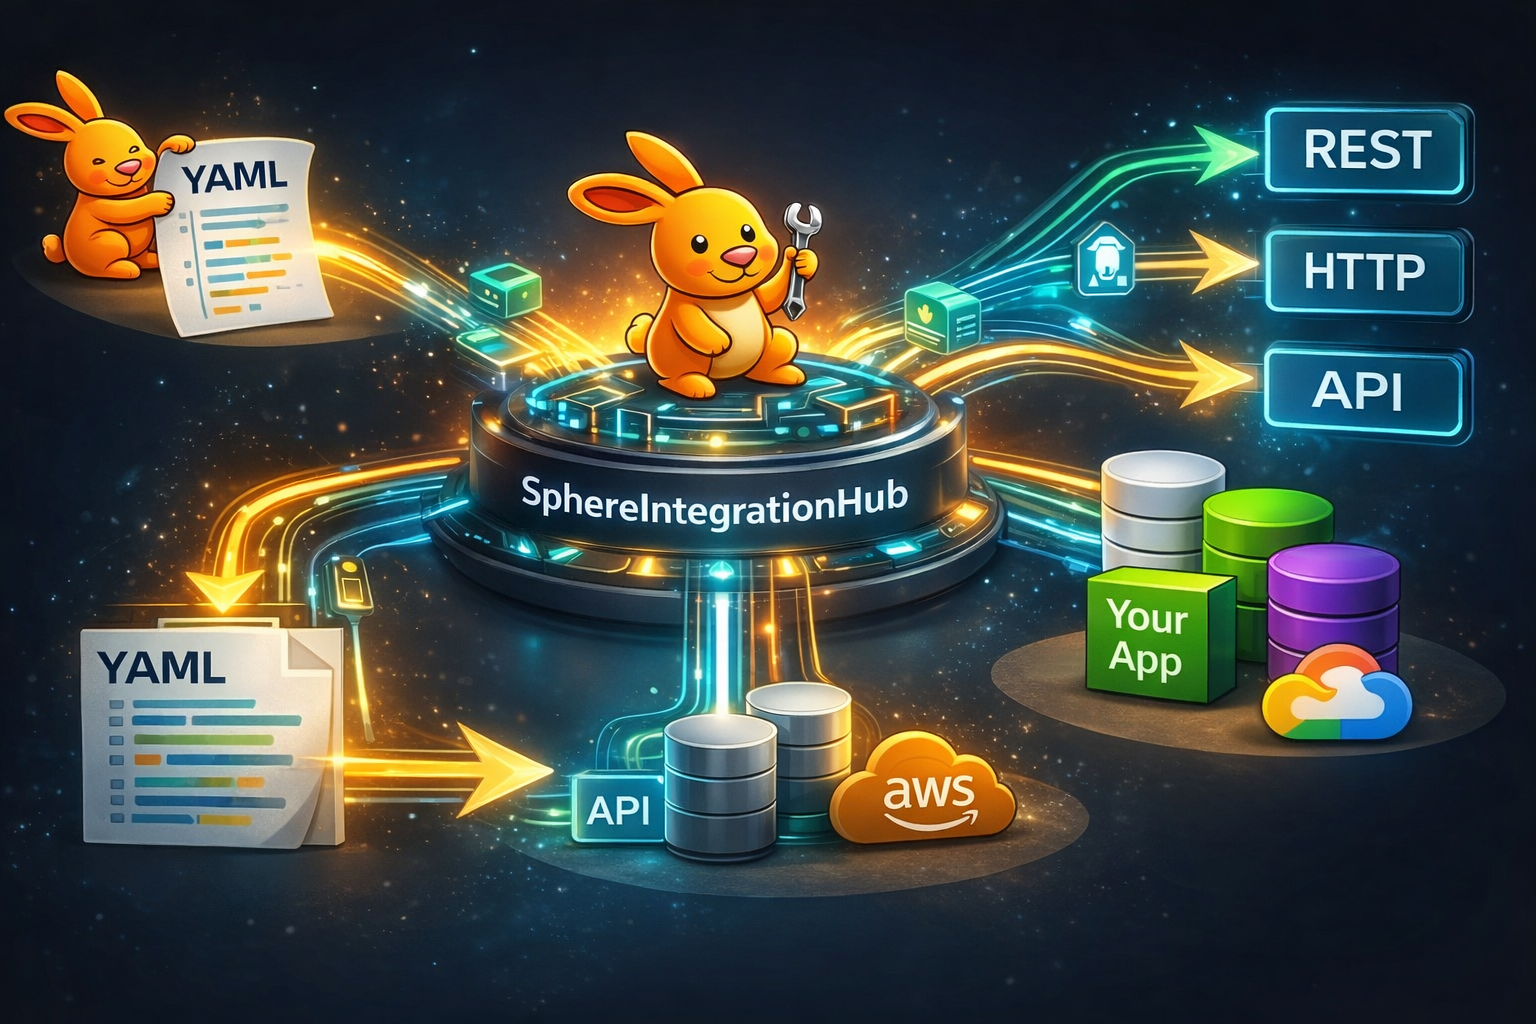
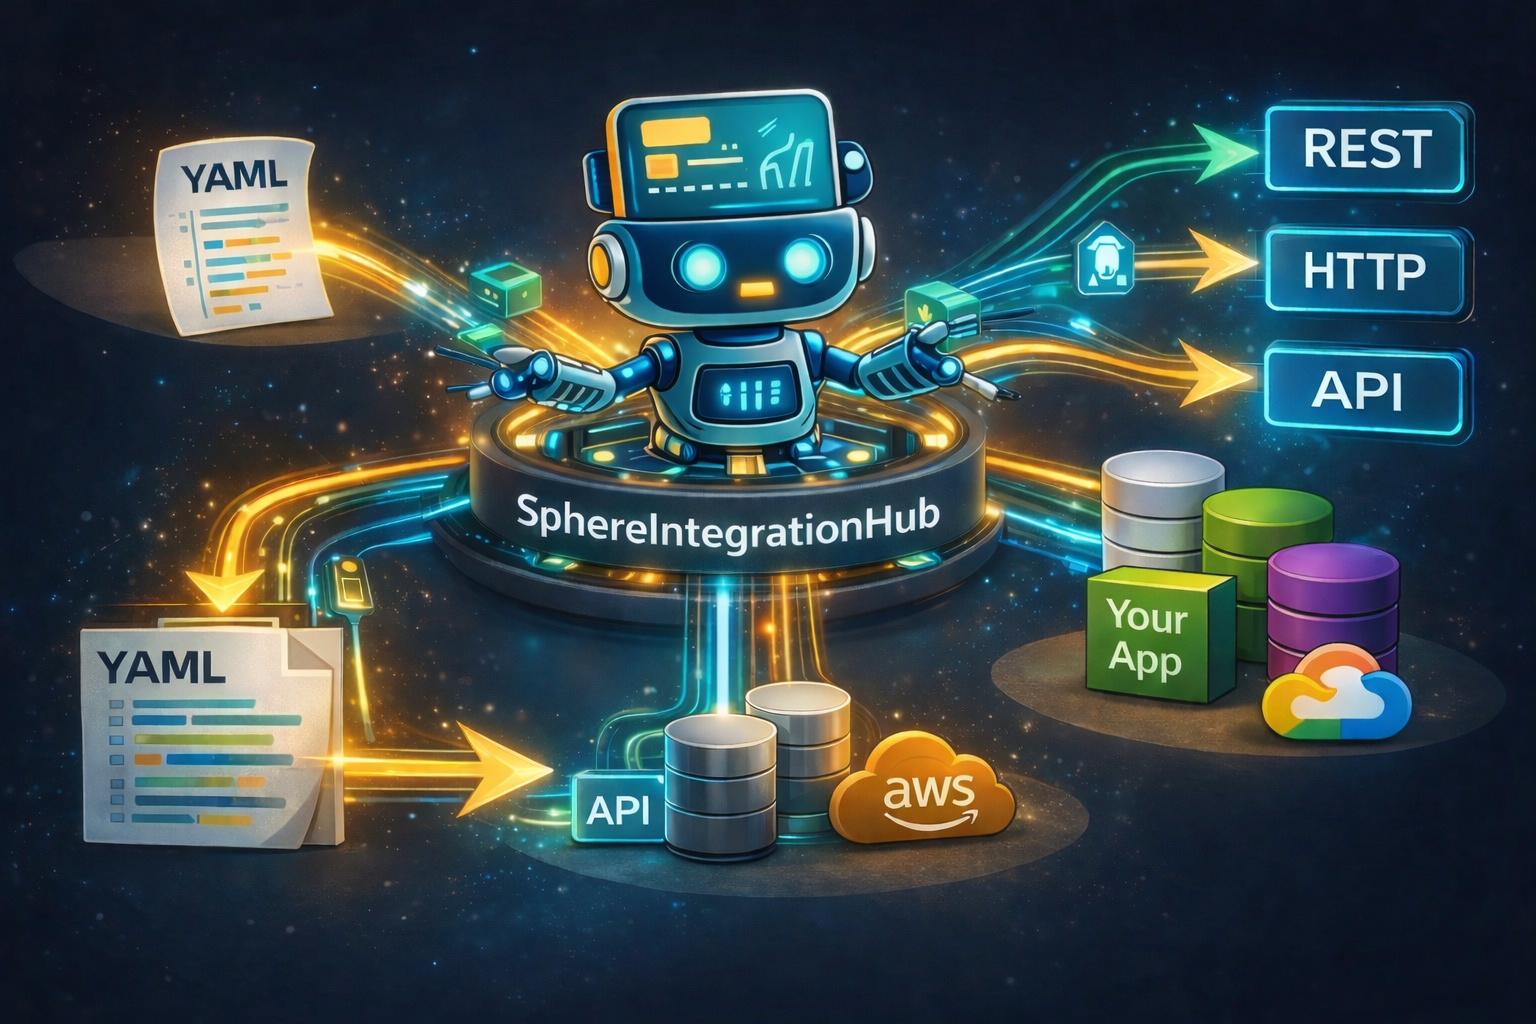
feat(mcp): add MCP probe workflow and related configurations

Changed region(s): [[0.0, 0.0625, 0.9688, 0.8438], [0.5, 0.7812, 0.5312, 0.8438]]

diff --git a/README.md b/README.md
@@ -7,9 +7,11 @@
 </p>
 
 [![Ask DeepWiki](https://deepwiki.com/badge.svg)](https://deepwiki.com/PinedaTec-EU/SphereIntegrationHub)
-
 [![License MIT](https://img.shields.io/badge/MIT_license-blue)](https://opensource.org/licenses/MIT)
 [![DotNet 10](https://img.shields.io/badge/dotnet_10-green)](https://dotnet.microsoft.com/en-us/download/dotnet/10.0)
+![MCP](https://img.shields.io/badge/MCP-yellow)
+![CLI](https://img.shields.io/badge/CLI-blue)
+![IaC](https://img.shields.io/badge/IaC-red)
 
 CLI tool to orchestrate API calls using versioned Swagger catalogs and YAML workflows. Workflows can reference other workflows, share context (like JWTs), validate endpoints against cached Swagger specs, and run in dry-run mode for validation.
 